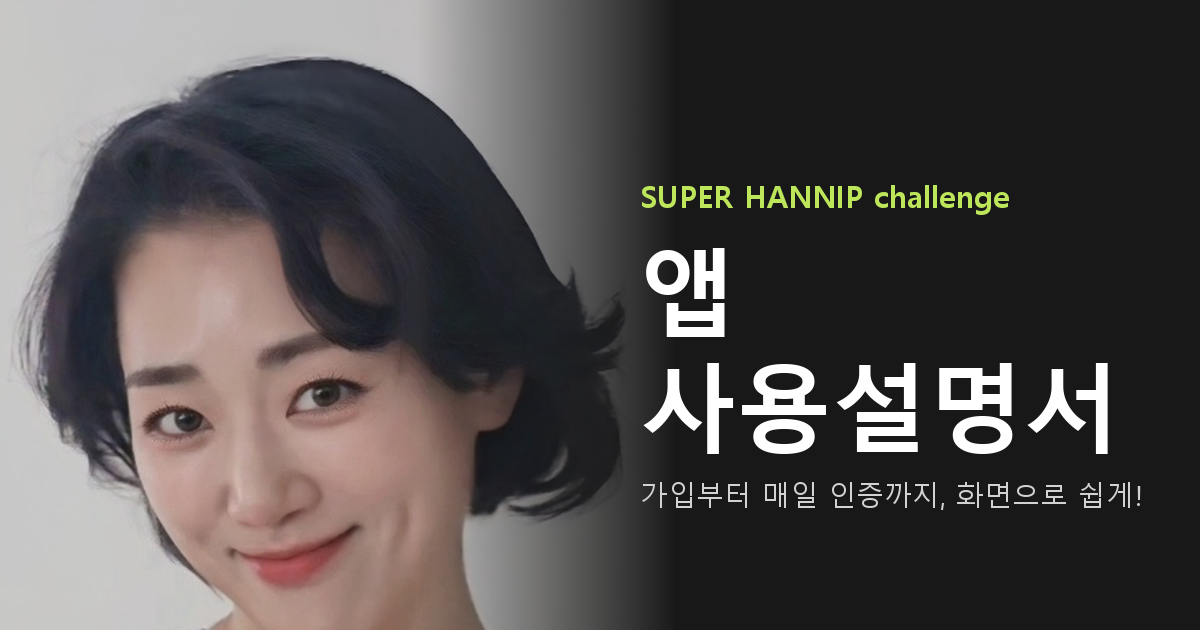
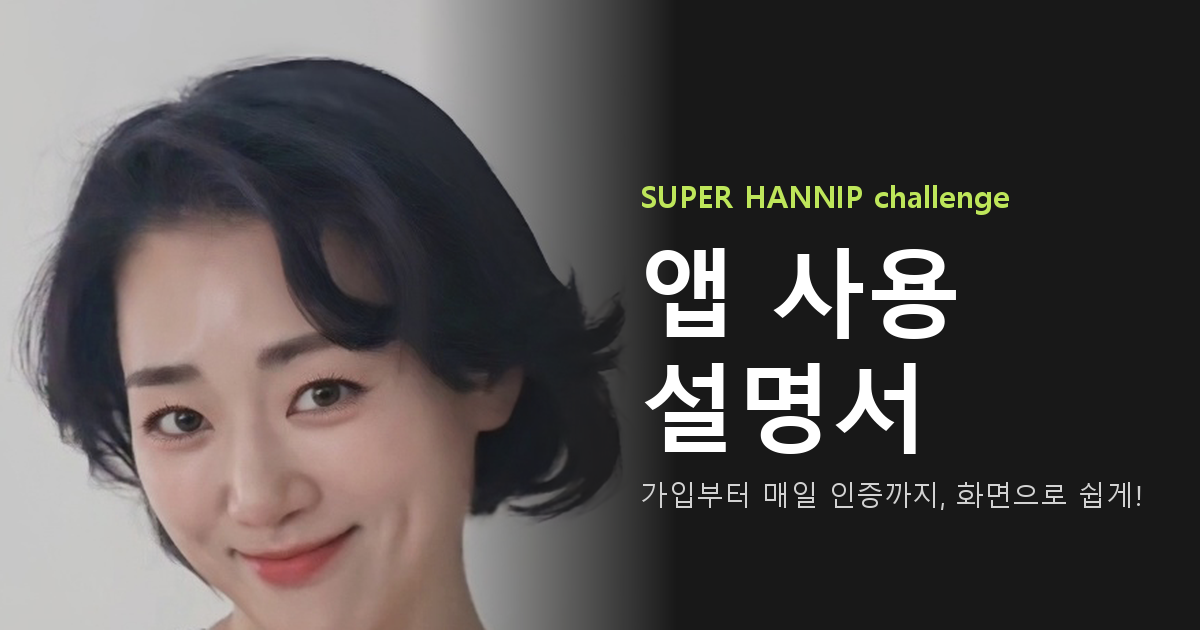
style: 설명서 미리보기 그림 '앱 사용 / 설명서' 두 줄

Changed region(s): [[0.5242, 0.573, 0.925, 0.7238], [0.6475, 0.3921, 0.8017, 0.5429]]

diff --git a/client/public/guide/index.html b/client/public/guide/index.html
@@ -1,4 +1,4 @@
-<!DOCTYPE html><html lang='ko'><head><meta charset='utf-8'><meta name='viewport' content='width=device-width,initial-scale=1'><title>앱 사용설명서 · 슈퍼한입 챌린지</title><meta property='og:title' content='앱 사용설명서 · 슈퍼한입 챌린지'><meta property='og:description' content='가입부터 매일 인증까지, 화면으로 쉽게!'><meta property='og:type' content='website'><meta property='og:url' content='https://super-hannip.up.railway.app/guide/'><meta property='og:image' content='https://super-hannip.up.railway.app/guide/og-guide.png'><meta property='og:image:width' content='1200'><meta property='og:image:height' content='630'><style>
+<!DOCTYPE html><html lang='ko'><head><meta charset='utf-8'><meta name='viewport' content='width=device-width,initial-scale=1'><title>앱 사용설명서 · 슈퍼한입 챌린지</title><meta property='og:title' content='앱 사용설명서 · 슈퍼한입 챌린지'><meta property='og:description' content='가입부터 매일 인증까지, 화면으로 쉽게!'><meta property='og:type' content='website'><meta property='og:url' content='https://super-hannip.up.railway.app/guide/'><meta property='og:image' content='https://super-hannip.up.railway.app/guide/og-guide.png?v=2'><meta property='og:image:width' content='1200'><meta property='og:image:height' content='630'><style>
 *{box-sizing:border-box}body{margin:0;background:#1d1e22;color:#ececea;font-family:'Pretendard','Apple SD Gothic Neo','Malgun Gothic',sans-serif;-webkit-text-size-adjust:100%}
 .wrap{max-width:560px;margin:0 auto;padding:0 16px 80px}
 header{padding:36px 4px 18px;text-align:center}
